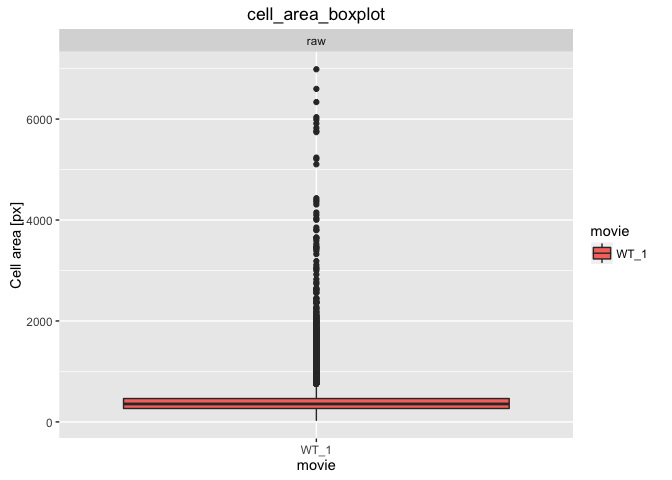
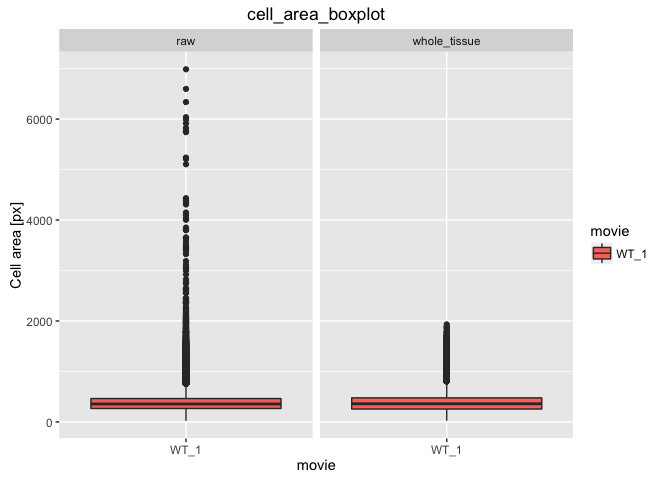
fixed ROI def

diff --git a/docs/quickstart/other_os/tutorials/cell_area_ROI.md b/docs/quickstart/other_os/tutorials/cell_area_ROI.md
@@ -12,7 +12,7 @@ Cell area is stored in the database, but ROI's are not. ROI's are identified by 
 
 ```
 $DOCKER sm roi_tracking 
-$DOCKER cell_area_pattern.R . output_analysis "cell_patch"
+$DOCKER cell_area_pattern.R . output_analysis "whole_tissue"
 ```
 
 ![](cell_area_ROI_files/figure-html/cell_area_pattern-1.png)
